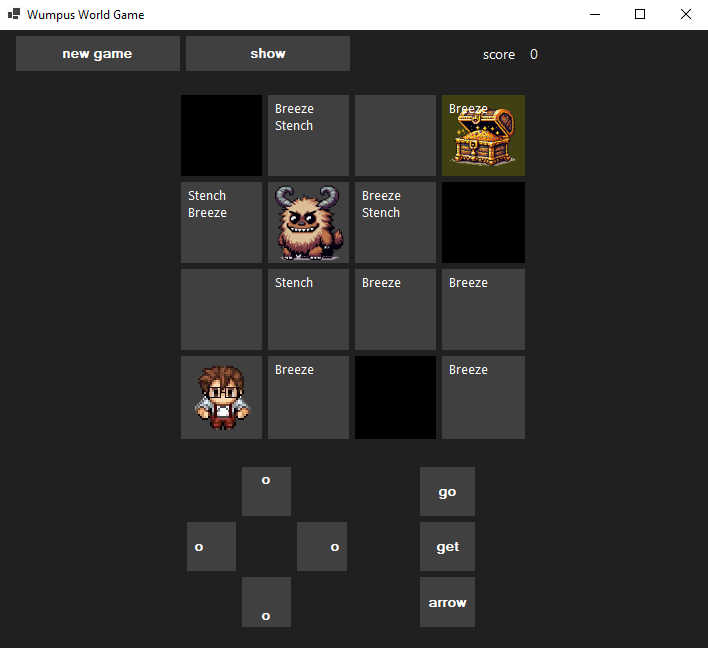
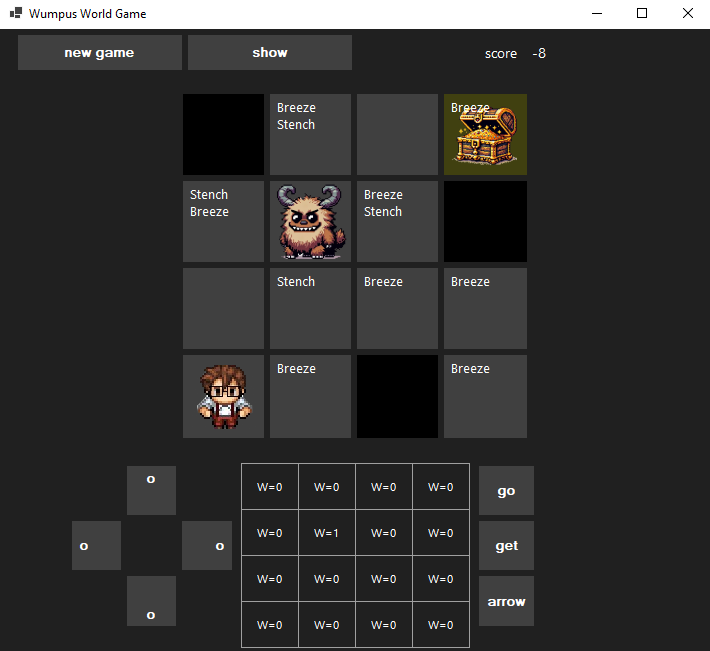
update README

diff --git a/README.md b/README.md
@@ -14,7 +14,7 @@ No Wumpus World, o jogador move um personagem através de um grid 4x4, onde cada
 - Dicas sensoriais como "Breeze" e "Stench" para indicar a proximidade de perigos.
 - Capacidade de atirar uma flecha para matar o Wumpus.
 
- ![img](print.png)
+![img](print.png)
 
 ## Requisitos
 
@@ -40,4 +40,9 @@ No Wumpus World, o jogador move um personagem através de um grid 4x4, onde cada
   - Espaço para "Get".
   - A para "Arrow".
 
-  ## Ainda não está completo...
+## Matriz de probabilidades
+
+![img2](print2.png)
+
+
+## Ainda não está completo...

diff --git a/README_en.md b/README_en.md
@@ -40,4 +40,8 @@ In Wumpus World, the player moves a character through a 4x4 grid, where each cel
   - Space for "Get".
   - A for "Arrow".
 
+## Probabilities Matrix
+
+![img2](print2.png)
+
 ## Still under development...
